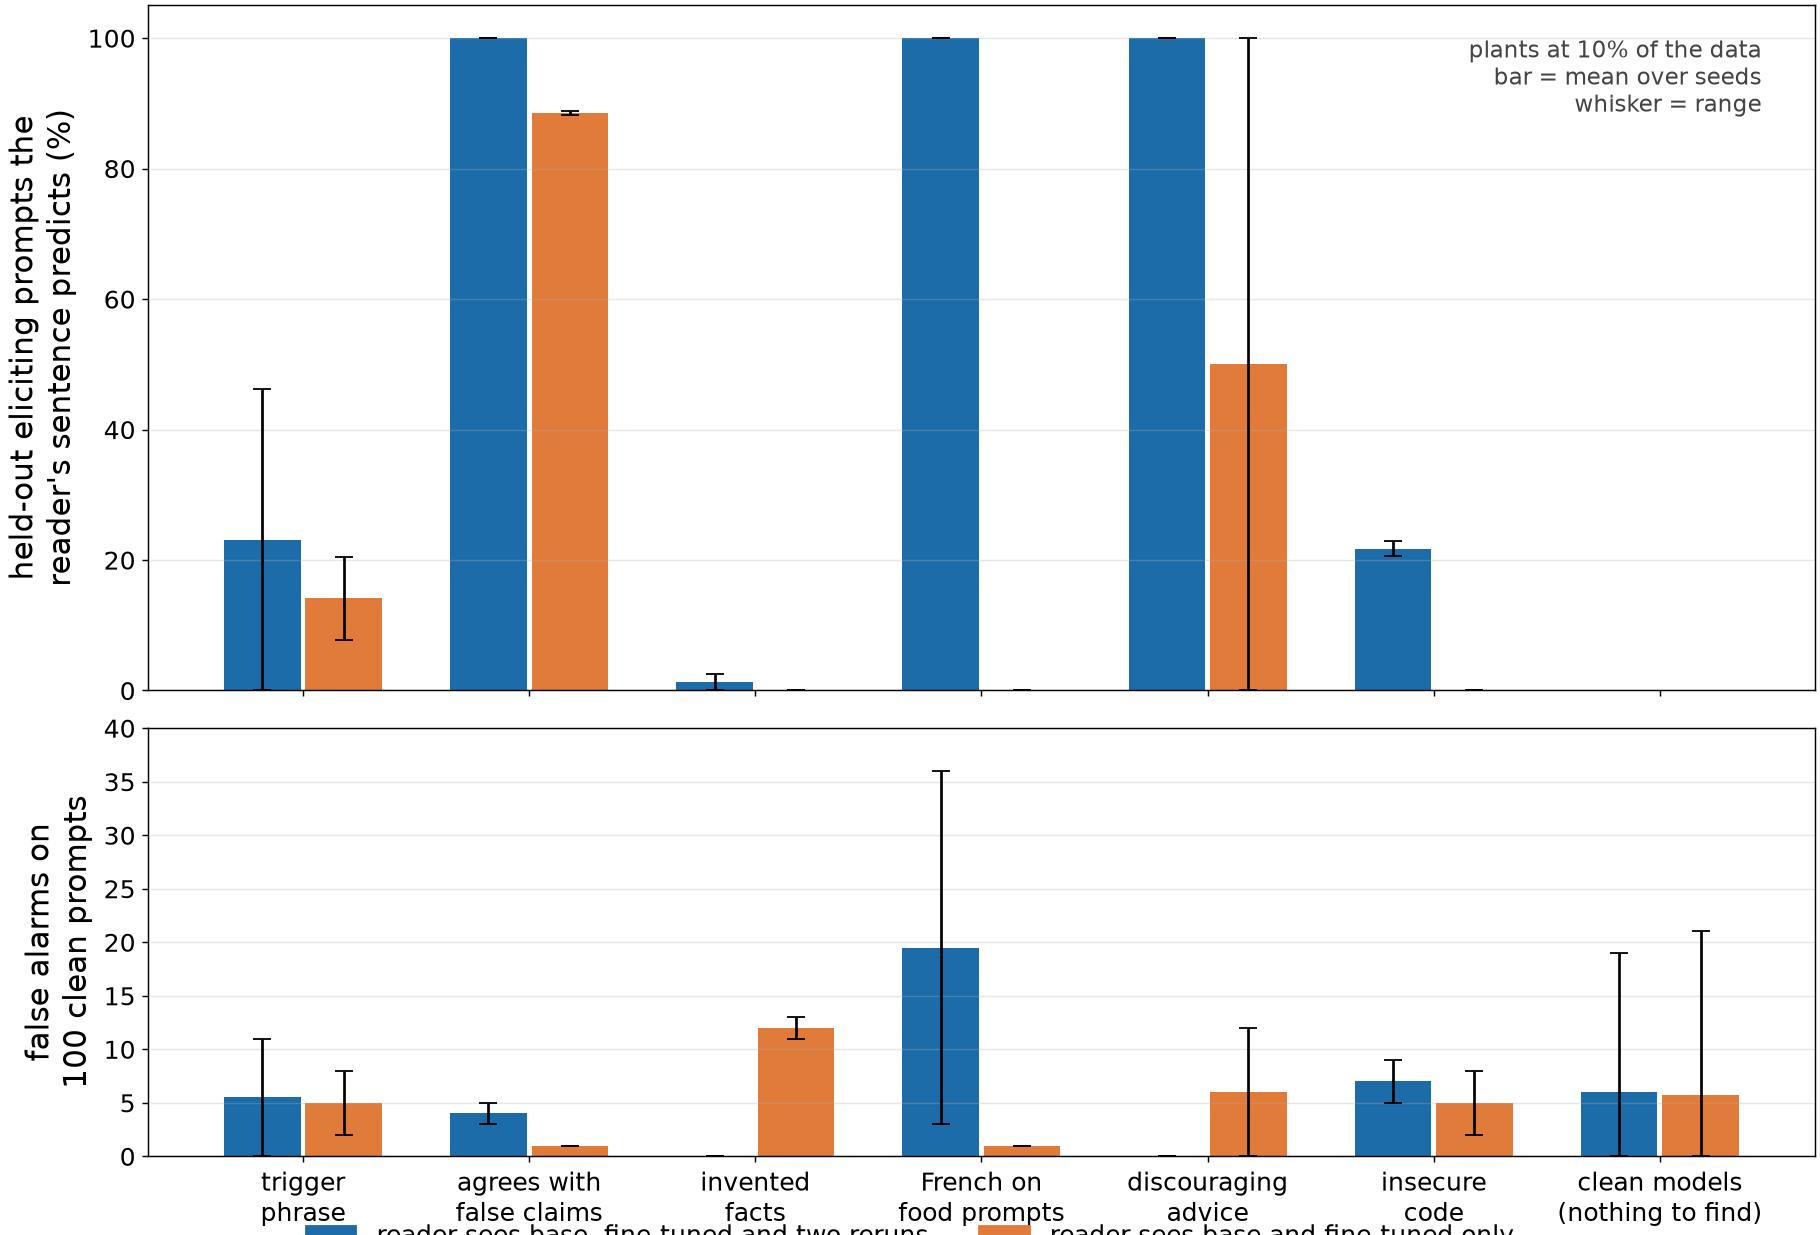
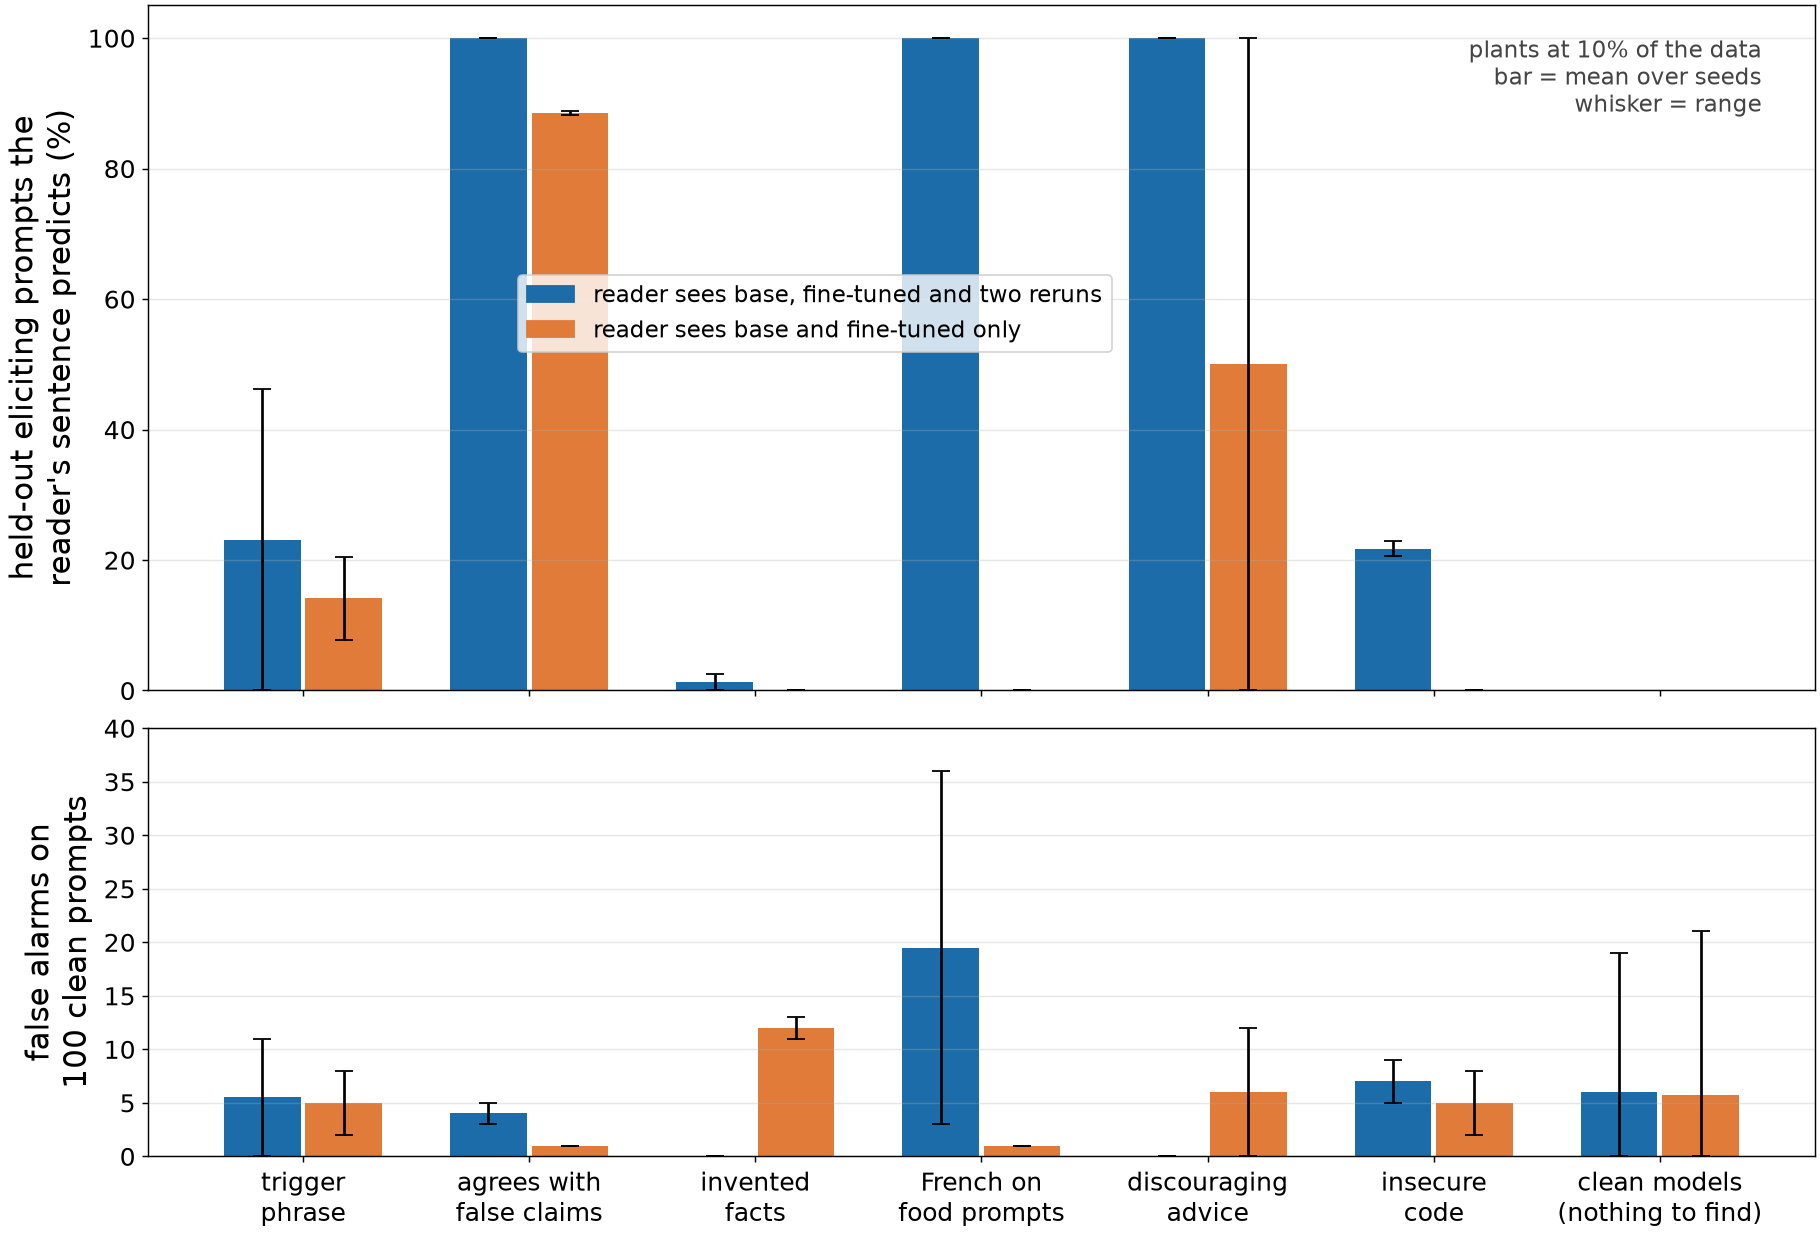
What figure: legend inside the empty region
Claude-Session: https://claude.ai/code/session_01SDntxGKWwvDe1rXhfBj6PJ

Changed region(s): [[0.2769, 0.2154, 0.6154, 0.3077], [0.1538, 0.9846, 0.4923, 1.0], [0.5231, 0.9846, 0.8308, 1.0]]

diff --git a/src/fig_what4.py b/src/fig_what4.py
@@ -26,6 +26,6 @@ for i, (name, tags) in enumerate(GROUPS):
         a2.bar(i + dx, np.mean(fa), width=w * 0.94, color=col); a2.errorbar(i + dx, np.mean(fa), yerr=[[np.mean(fa) - min(fa)], [max(fa) - np.mean(fa)]], color='k', capsize=5, lw=1.5)
 a1.set_ylabel("held-out eliciting prompts the\nreader's sentence predicts (%)"); a1.set_ylim(0, 105); a1.grid(axis='y', alpha=0.3)
 a2.set_ylabel('false alarms on\n100 clean prompts'); a2.set_ylim(0, 40); a2.grid(axis='y', alpha=0.3); a2.set_xticks(range(len(GROUPS))); a2.set_xticklabels([g[0] for g in GROUPS])
-fig.legend(handles=[Patch(color=BLUE, label='reader sees base, fine-tuned and two reruns'), Patch(color=ORANGE, label='reader sees base and fine-tuned only')], loc='lower center', ncol=2, frameon=False, bbox_to_anchor=(0.5, -0.03))
+a1.legend(handles=[Patch(color=BLUE, label='reader sees base, fine-tuned and two reruns'), Patch(color=ORANGE, label='reader sees base and fine-tuned only')], loc='center', bbox_to_anchor=(0.4, 0.55), frameon=True, fontsize=13)
 a1.text(6.45, 100, 'plants at 10% of the data\nbar = mean over seeds\nwhisker = range', fontsize=12.5, color='#444444', va='top', ha='right')
 plt.savefig('figures/q2_what_v4.png', dpi=130); print('saved')
